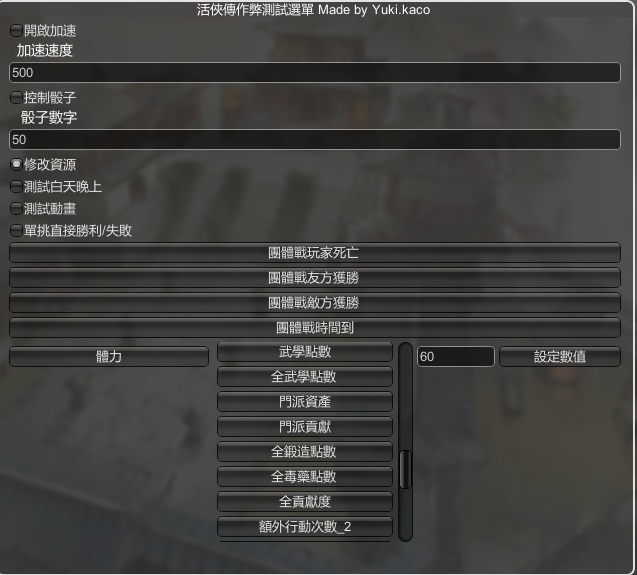
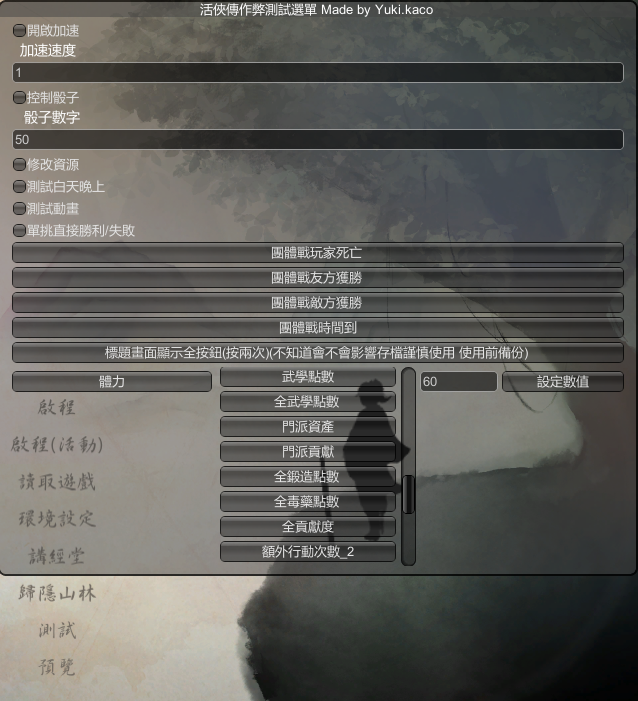
Update Readme and Add Picture

diff --git a/README.md b/README.md
@@ -16,15 +16,18 @@
 - 直接勝利/失敗
 - 團體戰友方/敵方勝利
 - 玩家狀態數值設定
+- 測試介面
 
 ## 翻譯問題
 - 煉丹點數 = 毒藥點數
 - 總共獲得煉丹點數 = 全毒藥點數
 
 ## 螢幕截圖
+![](/img/testPanel.png)
 ![](/img/Menu.png)
 ![](/img/winLose.png)
 ![](/img/GroupWinLose.png)
+![](/img/resource.png)
 
 ## 使用影片
 https://youtu.be/kBVdjNVJoXA
